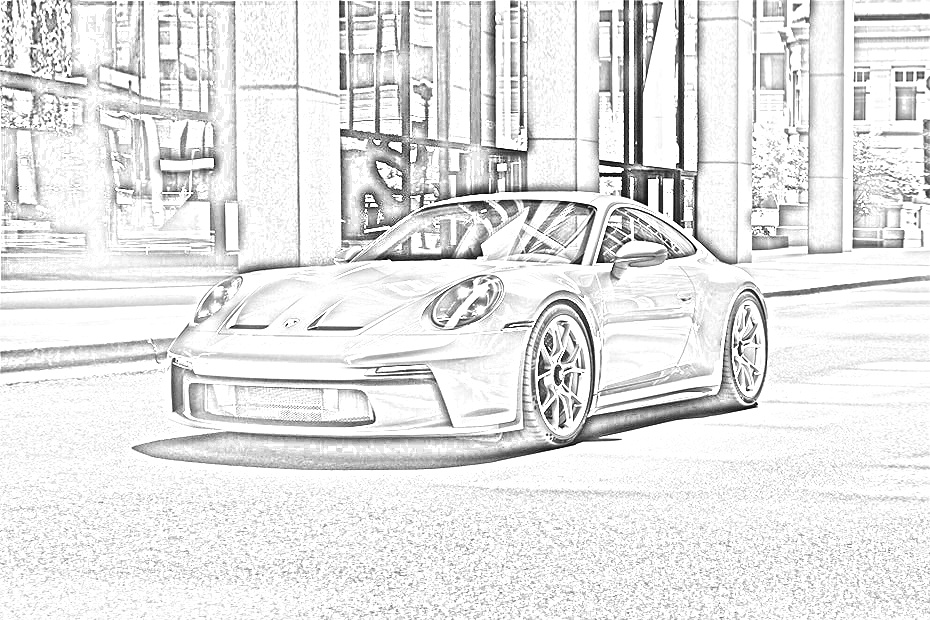
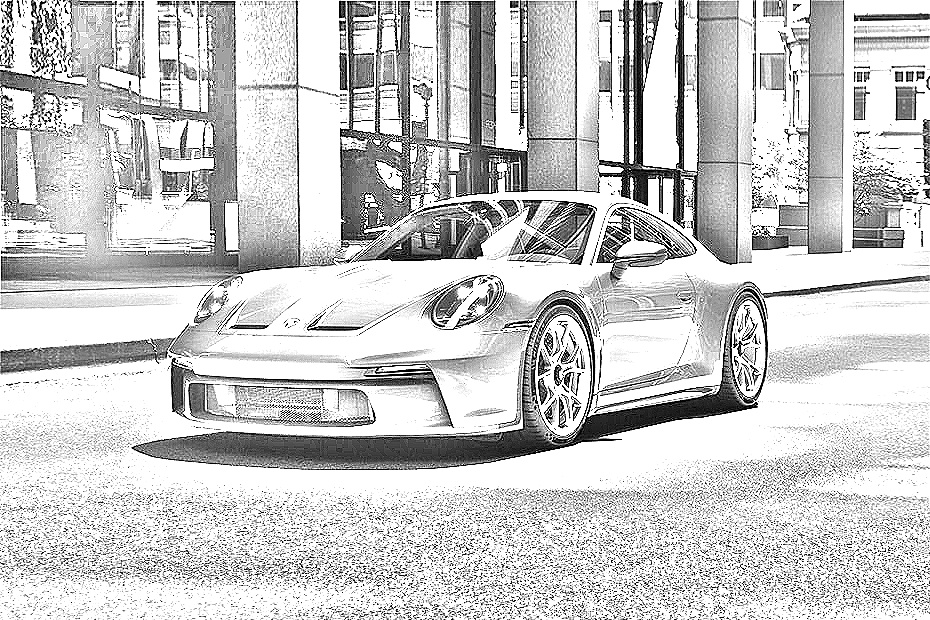
kernel and sharpen_value args in PencilSketch object

diff --git a/pencilSketch.py b/pencilSketch.py
@@ -10,16 +10,19 @@ class PencilSketch:
         blur_simga: int = 5,
         ksize: typing.Tuple[int, int] = (0, 0),
         sharpen_value: int = None,
+        kernel: np.ndarray = None,
         ) -> None:
         """
         Args:
             blur_simga: (int) - sigma ratio to apply for cv2.GaussianBlur
             ksize: (float) - ratio to apply for cv2.GaussianBlur
+            sharpen_value: (int) - sharpen value to apply in predefined kernel array
+            kernel: (np.ndarray) - custom kernel to apply in sharpen function
         """
         self.blur_simga = blur_simga
         self.ksize = ksize
         self.sharpen_value = sharpen_value
-        self.kernel = np.array([[0, -1, 0], [-1, sharpen_value,-1], [0, -1, 0]])
+        self.kernel = np.array([[0, -1, 0], [-1, sharpen_value,-1], [0, -1, 0]]) if kernel == None else kernel
 
     def dodge(self, front: np.ndarray, back: np.ndarray) -> np.ndarray:
         """The formula comes from https://en.wikipedia.org/wiki/Blend_modes
@@ -36,7 +39,7 @@ class PencilSketch:
         return result.astype('uint8')
 
     def sharpen(self, image: np.ndarray) -> np.ndarray:
-        """Sharpen image by defined kernel
+        """Sharpen image by defined kernel size
         Args:
             image: (np.ndarray) - image to be sharpened
 
@@ -63,7 +66,6 @@ class PencilSketch:
         inverted_img = 255 - grayscale
 
         blur_img = cv2.GaussianBlur(inverted_img, ksize=self.ksize, sigmaX=self.blur_simga)
-
 
         final_img = self.dodge(blur_img, grayscale)
 
